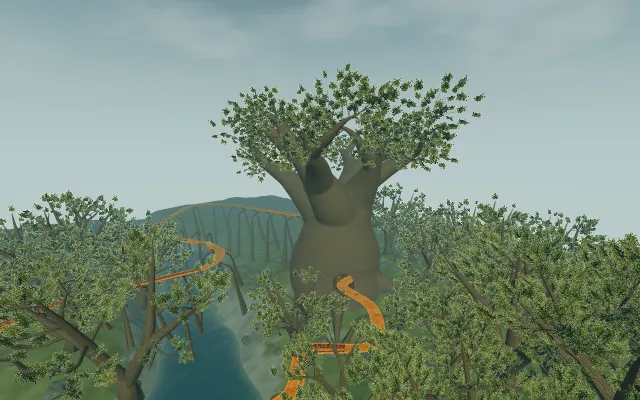
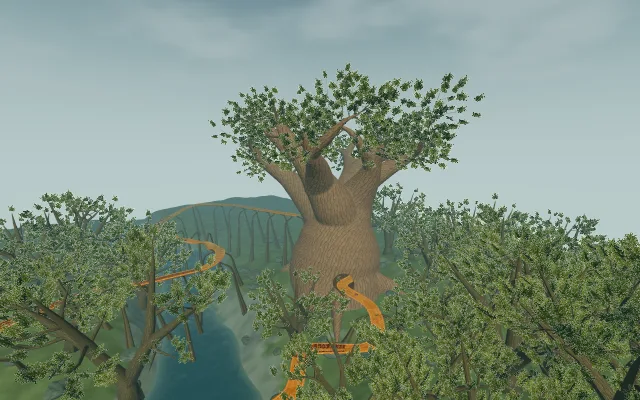
Give Vesper ancient oak a coarse custom bark palette

Changed region(s): [[0.4062, 0.27, 0.6562, 0.84], [0.375, 0.36, 0.4062, 0.39]]

diff --git a/games/vector-nova/src/levels/vesper-forest/environment/lifecycle.test.js b/games/vector-nova/src/levels/vesper-forest/environment/lifecycle.test.js
@@ -85,7 +85,7 @@ test('a missing carved-tree asset releases the earlier grove, terrain and borrow
     if (url.endsWith('/ancient-oak-v1.glb')) throw cause;
     return allowedFetch(request, options);
   });
-  const maps = [new T.Texture(), new T.Texture()];
+  const maps = Array.from({ length: 4 }, () => new T.Texture());
   const mapCounts = watch(maps);
   t.mock.method(T.TextureLoader.prototype, 'loadAsync', async () =>
     maps.shift(),
@@ -107,6 +107,26 @@ test('a missing carved-tree asset releases the earlier grove, terrain and borrow
   );
   assertReleasedOnce(mapCounts);
   assertReleasedOnce(geometries);
+});
+
+test('a failed giant bark height load releases its albedo and earlier grove resources', async (t) => {
+  allowWorldkitAssetReads(t);
+  const maps = Array.from({ length: 3 }, () => new T.Texture());
+  const counts = watch(maps);
+  const cause = new Error('Ancient bark height unavailable');
+  t.mock.method(T.TextureLoader.prototype, 'loadAsync', async () => {
+    if (maps.length) return maps.shift();
+    throw cause;
+  });
+  await assert.rejects(
+    createVesperEnvironment({ track: createVesperTrack() }),
+    (error) => {
+      assert.match(error.message, /Ancient oak bark could not load/);
+      assert.equal(error.cause, cause);
+      return true;
+    },
+  );
+  assertReleasedOnce(counts);
 });
 
 test('a late construction failure releases loaded maps, partial instances and temporary root geometry', async (t) => {
@@ -159,6 +179,22 @@ test('the complete environment respects inherited reduced motion and owns shared
   });
   const resources = watch(sceneResources(environment.group));
   try {
+    const ancientBark =
+      environment.group.getObjectByName('AncientOak_Bark').material;
+    const groveBark =
+      environment.group.getObjectByName('AncientOak_Twigs').material;
+    const heartwood = environment.group.getObjectByName(
+      'AncientOak_Heartwood',
+    ).material;
+    assert.notEqual(ancientBark, groveBark);
+    assert.notEqual(ancientBark.map, groveBark.map);
+    assert.notEqual(ancientBark.map, heartwood.map);
+    assert.equal(ancientBark.map.colorSpace, T.SRGBColorSpace);
+    assert.equal(ancientBark.bumpMap.colorSpace, T.NoColorSpace);
+    assert.deepEqual(ancientBark.map.repeat.toArray(), [0.125, 0.125]);
+    assert.deepEqual(ancientBark.bumpMap.repeat.toArray(), [0.125, 0.125]);
+    assert.deepEqual(groveBark.map.repeat.toArray(), [1, 1]);
+    assert.deepEqual(heartwood.map.repeat.toArray(), [1, 1]);
     const water = environment.group.getObjectByName(
       'Living Forest / reflective floodplain',
     );

diff --git a/games/vector-nova/src/levels/vesper-forest/environment/ancient-oak-material.js b/games/vector-nova/src/levels/vesper-forest/environment/ancient-oak-material.js
@@ -1,0 +1,42 @@
+import * as T from 'three';
+
+const BARK_URL = new URL(
+  '../../../../assets/levels/vesper-forest/ancient-oak-bark-v1.jpg',
+  import.meta.url,
+).href;
+const HEIGHT_URL = new URL(
+  '../../../../assets/levels/vesper-forest/ancient-oak-bark-height-v1.png',
+  import.meta.url,
+).href;
+
+/** Vesper owns this landmark palette; ordinary grove materials remain borrowed. */
+export async function createAncientOakBark({ lifetime, wood }) {
+  const loader = new T.TextureLoader();
+  let map, bumpMap;
+  try {
+    map = lifetime.own(await loader.loadAsync(BARK_URL));
+    bumpMap = lifetime.own(await loader.loadAsync(HEIGHT_URL));
+  } catch (cause) {
+    throw new Error('Ancient oak bark could not load. Reload to try again.', {
+      cause,
+    });
+  }
+  map.colorSpace = T.SRGBColorSpace;
+  bumpMap.colorSpace = T.NoColorSpace;
+  for (const texture of [map, bumpMap]) {
+    texture.anisotropy = 8;
+    texture.wrapS = texture.wrapT = T.RepeatWrapping;
+    // The baked wood UVs use 6.5m tiles. This palette repeats every 52m,
+    // letting broad ancient bark plates survive the distant menu camera.
+    texture.repeat.setScalar(0.125);
+  }
+  const material = lifetime.own(wood.clone());
+  material.name = 'Vesper / colossal ancient oak bark';
+  material.color.set('#ffffff');
+  material.map = map;
+  material.bumpMap = bumpMap;
+  material.bumpScale = 1.5;
+  material.roughness = 0.9;
+  material.normalMap = material.roughnessMap = null;
+  return material;
+}

diff --git a/games/vector-nova/src/levels/vesper-forest/environment/index.js b/games/vector-nova/src/levels/vesper-forest/environment/index.js
@@ -17,6 +17,7 @@ import { createForestTerrain, randomSource } from './terrain.js';
 import { createForestRouteClearance } from './clearance.js';
 import { createLifetime } from '../../../core/lifecycle.js';
 import { createVesperPresentationClock } from './presentation-clock.js';
+import { createAncientOakBark } from './ancient-oak-material.js';
 
 const UP = new T.Vector3(0, 1, 0);
 const DETAIL_DISTANCE = { high: 330, low: 130 };
@@ -140,6 +141,10 @@ async function buildEnvironment(
   const foliageClearance = createForestRouteClearance(track, {
     margin: FOLIAGE_MOTION_MARGIN,
   });
+  const ancientBark = await createAncientOakBark({
+    lifetime,
+    wood: forestKit.materials.wood,
+  });
   const hollow = lifetime.own(
     await loadAncientTree({
       url: ANCIENT_OAK_URL,
@@ -150,6 +155,9 @@ async function buildEnvironment(
       },
     }),
   );
+  // The fine Sapling twigs keep the grove-scale bark. Only the giant's
+  // joined bole, primary forks and buttresses use its dedicated broad plates.
+  hollow.group.getObjectByName('AncientOak_Bark').material = ancientBark;
   hollow.group.position.fromArray(hollowData.center);
   group.add(hollow.group);
   kit.materials.wood.bumpScale = 0.75;

diff --git a/games/vector-nova/docs/ART_BIBLE.md b/games/vector-nova/docs/ART_BIBLE.md
@@ -84,7 +84,7 @@ Future world art directions: Halcyon can explore racing between closer buildings
 
 ## Vesper Forest
 
-A 5.3 km forest circuit with an opaque polished amber resin road, rolling grove approaches, hollow ascent, crown leap, canopy plunge, reversing Bloomspan corkscrew, Rootfall dive and a second river skip. Living Forest roots connect the road underside to soil or the hollow wall. Sapling-grown groves surround a tall ancient oak with a low carved trunk, unequal rising forks and an irregular crown of jade foliage, above river-cut terrain, exposed roots and slate banks. Four grove silhouettes keep irregular bends, branching limbs and useful gaps between canopy masses. The ancient oak remains the principal landmark. A helical passage cuts through solid heartwood beneath tall, connected branch forks; its entrance and interior need convincing thickness and a clear route through the wood. Its exposed crown uses the same branching language as the groves. Worldkit supplies the growth anatomy, fine Sapling branches, generated bark color and alpha-tested foliage spray. Dark caramel sap, restrained orange wet currents and pale dry-lane margins communicate the slowing hazard; localized dark-orange wet film with faint warmth, stretching resin strands and a modest collecting pool make viscous contact visible while preserving the hull. The full 28 m apron continues through both jump approaches and receivers; broad chevrons communicate that width.
+A 5.3 km forest circuit with an opaque polished amber resin road, rolling grove approaches, hollow ascent, crown leap, canopy plunge, reversing Bloomspan corkscrew, Rootfall dive and a second river skip. Living Forest roots connect the road underside to soil or the hollow wall. Sapling-grown groves surround a tall ancient oak with a low carved trunk, unequal rising forks and an irregular crown of jade foliage, above river-cut terrain, exposed roots and slate banks. Four grove silhouettes keep irregular bends, branching limbs and useful gaps between canopy masses. The ancient oak remains the principal landmark. A helical passage cuts through solid heartwood beneath tall, connected branch forks; its entrance and interior need convincing thickness and a clear route through the wood. Its exposed crown uses the same branching language as the groves. Worldkit supplies the growth anatomy, fine Sapling branches and alpha-tested foliage spray. Vesper owns the giant exterior's coarse bark plates and broad creases so its surface reads at the saved preview scale; groves and carved heartwood retain their existing finish. Dark caramel sap, restrained orange wet currents and pale dry-lane margins communicate the slowing hazard; localized dark-orange wet film with faint warmth, stretching resin strands and a modest collecting pool make viscous contact visible while preserving the hull. The full 28 m apron continues through both jump approaches and receivers; broad chevrons communicate that width.
 
 Establish silhouettes, ground relationships and sightlines before surface detail. The ancient hollow tapers into substantial spreading forks and a broad irregular roof; avoid swollen collars, a sawn barrel rim or narrow feather-shaped crowns. Compose unequal connected canopy masses with deliberate gaps revealing the canyon and water; avoid uniformly spaced trunks or isolated leaf fans. Branch-attached sprays respond gently to shared wind. Sparse broken currents travel downstream through the blue-green river, with quieter margins and retained bank reflections. Keep the 220 m before the hollow entrance and 220 m after the crown landing corridor substantial and readable from racing height. These are review areas within the full environment, not the limit of its construction.
 

diff --git a/games/vector-nova/ARCHITECTURE.md b/games/vector-nova/ARCHITECTURE.md
@@ -32,7 +32,7 @@ The 5.3 km route keeps the hollow climb, distributes shallow rolling grades and 
 
 The environment loads four baked Sapling grove forms and their paired distant meshes from Worldkit's `/living-forest/sapling` entry with `includeCrown: false`. The giant loads separately through `/living-forest/ancient-tree` from the consumer-owned `assets/levels/vesper-forest/ancient-oak-v1.glb`. Worldkit's authored growth graph supplies a solid leaning bole, unequal ascending forks and buttresses; its Blender tools fuse the branch junctions and subtract Vesper's swept helical passage. The broad route-bearing chamber stays low while the upper limbs extend independently. Fresh native Sapling fine branches and anchored foliage complete that model. Vesper does not construct the radial hollow shell or use its old crown parts.
 
-The [asset source guide](assets/levels/vesper-forest/README.md) records the two-stage rebuild. A maintained exporter samples the complete route and retained terrain into ignored consumer-owned clearance input. The derived Blender scene retains growth sweeps, UV donors, the tunnel cutter and fine-growth sources. Runtime loads four bounded skins (bark, heartwood, twigs and foliage) and borrows Vesper's material palette. Short in-tree road roots ray-seat into the actual carved tunnel floor; exterior foundations retain their soil anchors. Living Forest still supplies understory, slate and root geometry. The 220 m hollow approach and 220 m after its landing corridor remain useful track-visible review areas inside the complete world. Instancing and near/far geometry control grove cost; they do not establish an achieved frame rate.
+The [asset source guide](assets/levels/vesper-forest/README.md) records the two-stage rebuild. A maintained exporter samples the complete route and retained terrain into ignored consumer-owned clearance input. The derived Blender scene retains growth sweeps, UV donors, the tunnel cutter and fine-growth sources. Runtime loads four bounded skins (bark, heartwood, twigs and foliage) and borrows Vesper's material palette. Its consumer-owned giant bark material uses dedicated coarse albedo and filtered bump maps at 52-metre scale only on the primary exterior; grove trees, fine twigs and heartwood retain Worldkit maps. Short in-tree road roots ray-seat into the actual carved tunnel floor; exterior foundations retain their soil anchors. Living Forest still supplies understory, slate and root geometry. The 220 m hollow approach and 220 m after its landing corridor remain useful track-visible review areas inside the complete world. Instancing and near/far geometry control grove cost; they do not establish an achieved frame rate.
 
 Worldkit Weather supplies the shared wind state; its anchored foliage response bends each spray from its branch attachment in beauty and shadow passes. The export retains attachment points, weights, gradients and stable phases in both grove qualities and the giant crown. Placement reserves the 2.4 m world-space motion bound. Pond-water advects normals and sparse foam downstream along the river ribbon, with slower shallow margins. One consumer presentation clock advances both systems before green and during racing, freezes on pause/free camera/reduced motion, and resumes without catching up paused time. No Vesper-specific weather shader or independent wind oscillator is maintained.
 

diff --git a/games/vector-nova/assets/levels/vesper-forest/README.md b/games/vector-nova/assets/levels/vesper-forest/README.md
@@ -8,7 +8,26 @@ generator is not an input to this asset.
 `ancient-oak-v1.glb` is the runtime export; `ancient-oak-v1.blend` retains the
 editable joined wood, original growth sweeps, passage cutter and fine-growth
 sources. The JSON manifest records recipe hashes, geometry counts and export
-hashes. Bark and leaf images remain borrowed from Worldkit.
+hashes. Fine branches, heartwood and leaf images remain borrowed from Worldkit.
+The outer bole and primary limbs use Vesper's dedicated coarse bark palette.
+
+## Landmark bark
+
+`ancient-oak-bark-v1.jpg` is a 1024px custom albedo with broad interlocking plates,
+encoded from the retained built-in imagegen source in `bark-source/`. The exact
+prompt and source/output hashes are retained there. The 512px grayscale
+`ancient-oak-bark-height-v1.png` approximates relief from source luminance with
+a wrapped low-pass filter; it is bump data, not measured displacement.
+
+[The giant material](../../../src/levels/vesper-forest/environment/ancient-oak-material.js) repeats both maps every 52 metres on the
+wood's existing metric UVs. Only `AncientOak_Bark` receives this owned palette;
+grove trees, small branches and carved heartwood keep their existing materials.
+No geometry or Worldkit shared image is changed. Re-encode the runtime maps with
+Node 22 and local Chrome from `games/vector-nova`:
+
+```sh
+node assets/levels/vesper-forest/bark-source/prepare.mjs
+```
 
 ## Rebuild
 
